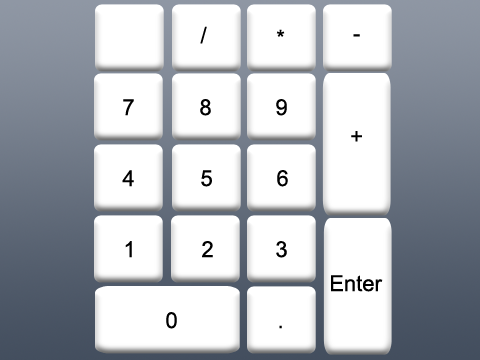
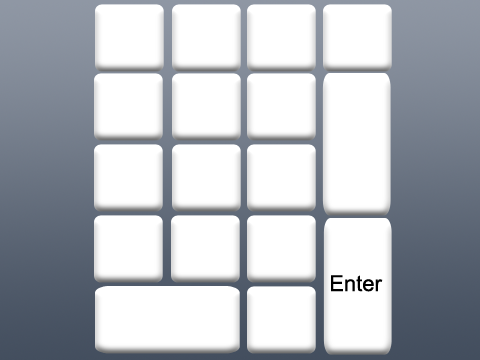
Improvements on soft layouts support
- Improved key labels rendering

- Removed most symbols from keyboard layout definitions

diff --git a/Sources/MKLayout.m b/Sources/MKLayout.m
@@ -140,21 +140,45 @@ NSString * const kLayoutType = @"Type";
 - (NSArray *)createLabels {
 	NSMutableArray *keys = [[[NSMutableArray alloc] init] autorelease];
 	for (MKButton *eachKey in currentButtons) {
+		NSDictionary *keySymbolReplacements = [NSDictionary dictionaryWithObjectsAndKeys:
+						       @"⌧", @"CLEAR",
+						       @"⏎", @"RETURN",
+						       @"⇧", @"SHIFT",
+						       @"⌫", @"DELETE",
+						       @"⌤", @"ENTER",
+						       @"①", @"NUMS",
+						       @"⌨", @"MODIFIERS",
+						       @"⁉", @"SYMS",
+						       @"Ⓐ", @"QWERTY",
+						       @"⎋", @"ESC",
+						       @"⌃", @"CTRL",
+						       @"⌥", @"ALT",
+						       @"⌘", @"CMD",
+						       @"⇥", @"TAB",
+						       @"↑", @"UP",
+						       @"↓", @"DOWN",
+						       @"←", @"LEFT",
+						       @"→", @"RIGHT",
+						       nil];
 		
 		NSFont *font = [NSFont fontWithName:@"Lucida Grande" size:20];
-		NSSize labelSize = [[[eachKey value] uppercaseString]
-				    sizeWithAttributes:[NSDictionary dictionaryWithObjectsAndKeys:font,
+		NSString *label = [[eachKey value] uppercaseString];
+		if ([keySymbolReplacements valueForKey:label])
+			label = [keySymbolReplacements valueForKey:label];
+
+		NSSize labelSize = [label sizeWithAttributes:[NSDictionary dictionaryWithObjectsAndKeys:font,
 							NSFontAttributeName, nil]];
 		NSRect textBoxRect = NSMakeRect((CGFloat)[eachKey xStart],
 						(CGFloat)(([eachKey yStart]+[eachKey yEnd]-labelSize.height)/2), // S+(E-S)/2-h/2
 						(CGFloat)[eachKey xEnd] - [eachKey xStart],
 						(CGFloat)(labelSize.height));
 		NSTextField *textField = [[[NSTextField alloc] initWithFrame:textBoxRect] autorelease];
-		[textField setStringValue:[[eachKey value] uppercaseString]];
+		[textField setStringValue:label];
 
 		[textField setEditable:NO];
 		[textField setSelectable:NO];
-// TODO		[textField setTextColor:(NSColor *)];
+		if (![eachKey isSymbol])
+			[textField setTextColor:[NSColor whiteColor]];
 		[textField setBackgroundColor:[NSColor clearColor]];
 		[textField setBordered:NO];
 		[textField setFont:font];
